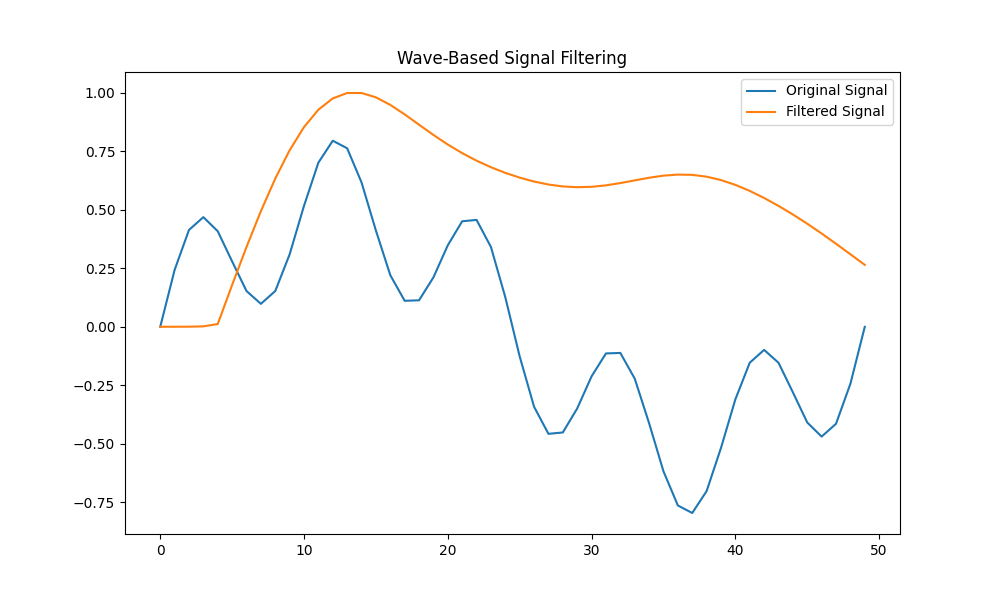
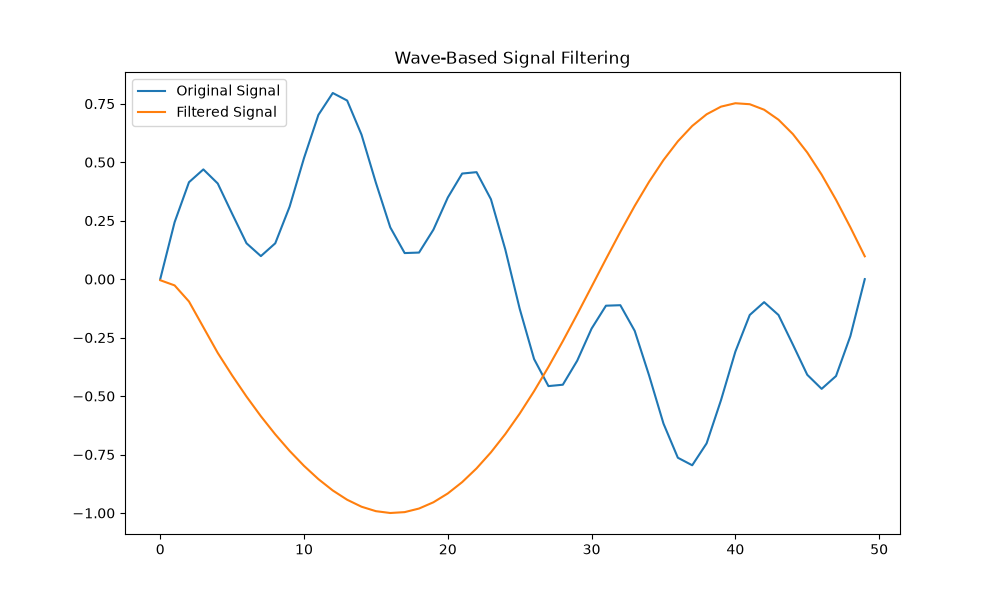
Fix wave logic gates ignoring their inputs
wave_logic_gates only checked that two input patterns were given; the
set-up and readout depended on the operation alone, so every input gave
the same answer (and at the old physics the centre readout was ~1e-9).

Each of the first two input patterns is now a bit (mean > 0.5) that
switches a line of sources on: input A along x = 5, input B along y = 5,
equidistant from the readout at the grid centre. The output compares the
centre amplitude with the amplitude one input alone produces there
(cached reference): AND > 1.5x (two in-phase waves add), OR > 0.5x, XOR
> 0.5x with B in antiphase so two active inputs cancel at the centre.
The result dict adds inputs, output, reference and threshold.
Default simulation_steps is 100 so the waves reach the centre.

On the 100 x 100 demo grid the centre amplitudes are 0, 0.365, 0.365 and
0.734 (AND/OR) and 0 for XOR with both inputs on; tests/test_wave_gates.py
checks all three truth tables and the margins. The demo prints the
truth tables. WaveComputing builds its media through _new_medium(), so
they share the computer's wave speed and time step.

diff --git a/wave_based_computing/wave_computing.py b/wave_based_computing/wave_computing.py
@@ -31,26 +31,14 @@ class WaveComputing:
         """
         results = []
         for test_idx, test_pattern in enumerate(test_patterns):
-            medium = WaveComputingMedium(
-                size=(self.medium.width, self.medium.height),
-                boundary=self.medium.boundary,
-                damping=self.medium.damping,
-                diffusion=self.medium.diffusion,
-                nonlinearity=self.medium.nonlinearity
-            )
+            medium = self._new_medium()
             self._encode_pattern_as_sources(medium, test_pattern)
             medium.run_simulation(steps=simulation_steps)
             test_signature = self._extract_wave_signature(medium)
 
             pattern_matches = []
             for ref_idx, ref_pattern in enumerate(reference_patterns):
-                ref_medium = WaveComputingMedium(
-                    size=(self.medium.width, self.medium.height),
-                    boundary=self.medium.boundary,
-                    damping=self.medium.damping,
-                    diffusion=self.medium.diffusion,
-                    nonlinearity=self.medium.nonlinearity
-                )
+                ref_medium = self._new_medium()
                 self._encode_pattern_as_sources(ref_medium, ref_pattern)
                 ref_medium.run_simulation(steps=simulation_steps)
                 ref_signature = self._extract_wave_signature(ref_medium)
@@ -131,83 +119,98 @@ class WaveComputing:
         similarity = dot_product / (magnitude1 * magnitude2 + 1e-6)
         return (similarity + 1) / 2
 
-    def wave_logic_gates(self, input_patterns, operation='and', simulation_steps=50):
+    # Gate set-up: one line of sources per input, equidistant from the readout point at the grid centre
+    GATE_AMPLITUDE = 0.3
+    GATE_FREQUENCY = 0.5
+    GATE_THRESHOLDS = {'and': 1.5, 'or': 0.5, 'xor': 0.5}   # x the single-input readout
+
+    def _new_medium(self, **overrides):
+        """A fresh medium with this computer's grid and physical parameters (overrides win)."""
+        kw = dict(size=(self.medium.width, self.medium.height), boundary=self.medium.boundary,
+                  damping=self.medium.damping, wave_speed=self.medium.wave_speed,
+                  nonlinearity=self.medium.nonlinearity, time_step=self.medium.time_step)
+        kw.update(overrides)
+        return WaveComputingMedium(**kw)
+
+    def gate_medium(self, bits, operation):
+        """Medium for a gate: input A is a line of sources at x = 5 (rows H/4..3H/4), input B a line at y = 5
+        (columns W/4..3W/4); a line is switched on when its bit is 1. B is in phase with A for AND/OR and in
+        antiphase for XOR, so at the centre (equidistant from both lines on a square grid) the two waves add
+        or cancel."""
+        medium = self._new_medium(boundary='absorbing')
+        phase_b = np.pi if operation == 'xor' else 0.0
+        if bits[0]:
+            for y in range(medium.height // 4, 3 * medium.height // 4):
+                medium.add_source((5, y), self.GATE_AMPLITUDE, self.GATE_FREQUENCY, phase=0.0)
+        if bits[1]:
+            for x in range(medium.width // 4, 3 * medium.width // 4):
+                medium.add_source((x, 5), self.GATE_AMPLITUDE, self.GATE_FREQUENCY, phase=phase_b)
+        return medium
+
+    @staticmethod
+    def gate_readout(medium, window=20):
+        """Wave amplitude at the centre: largest |mean of the 3x3 centre cells| over the last `window` frames
+        (20 frames = one period at the gate frequency with time_step 0.1)."""
+        cx, cy = medium.width // 2, medium.height // 2
+        frames = medium.history[-window:]
+        if not frames:
+            return 0.0
+        return float(max(abs(f[cy - 1:cy + 2, cx - 1:cx + 2].mean()) for f in frames))
+
+    def _gate_reference(self, simulation_steps):
+        """Readout with only input A on (cached per grid and parameters): the unit for the thresholds."""
+        key = (self.medium.width, self.medium.height, self.medium.damping, self.medium.wave_speed,
+               self.medium.nonlinearity, self.medium.time_step, simulation_steps)
+        cache = self.__dict__.setdefault('_gate_refs', {})
+        if key not in cache:
+            ref = self.gate_medium((True, False), 'or')
+            ref.run_simulation(steps=simulation_steps)
+            cache[key] = self.gate_readout(ref)
+        return cache[key]
+
+    def wave_logic_gates(self, input_patterns, operation='and', simulation_steps=100):
         """
         Implement logic gates using wave interference.
 
-        Note: the gate's sources, resonant region and readout are fixed by
-        `operation`; the contents of `input_patterns` are not used (only that at
-        least two are given), so the result does not depend on the input values.
+        Each of the first two input patterns is read as a bit (pattern mean > 0.5) that switches a line of
+        sources on or off (see gate_medium). The output is the wave amplitude at the grid centre compared with
+        the amplitude one input alone produces there (the reference): AND needs more than 1.5x the reference
+        (both waves arriving in phase), OR more than 0.5x, and XOR more than 0.5x with input B in antiphase, so
+        that two active inputs cancel at the centre.
 
         Parameters:
-        - input_patterns: List of input patterns (at least two; values unused)
+        - input_patterns: List of at least two input patterns (arrays; bit = mean > 0.5)
         - operation: Logic operation ('and', 'or', 'xor')
-        - simulation_steps: Number of simulation steps
+        - simulation_steps: Number of simulation steps (the waves need ~(W/2 - 5) / wave_speed time units
+          to reach the centre)
 
         Returns:
-        - output_pattern: Result of the operation
+        - dict with operation, inputs (bits), output (bool), result_value (centre amplitude), reference,
+          threshold, output_pattern and simulation_frames; None if fewer than two inputs
         """
         if len(input_patterns) < 2:
             return None
-        medium = WaveComputingMedium(
-            size=(self.medium.width, self.medium.height),
-            boundary=self.medium.boundary,
-            damping=self.medium.damping,
-            diffusion=self.medium.diffusion,
-            nonlinearity=self.medium.nonlinearity
-        )
-        if operation == 'and':
-            for y in range(medium.height // 4, 3 * medium.height // 4):
-                medium.add_source((5, y), 0.3, 0.5, phase=0)
-            for x in range(medium.width // 4, 3 * medium.width // 4):
-                medium.add_source((x, 5), 0.3, 0.5, phase=0)
-            center_x, center_y = medium.width // 2, medium.height // 2
-            medium.add_resonant_region(
-                center_x - 10, center_x + 10,
-                center_y - 10, center_y + 10,
-                frequency=0.5
-            )
-        elif operation == 'or':
-            for y in range(medium.height // 4, 3 * medium.height // 4):
-                medium.add_source((5, y), 0.2, 0.7, phase=0)
-            for x in range(medium.width // 4, 3 * medium.width // 4):
-                medium.add_source((x, 5), 0.2, 0.7, phase=0)
-            center_x, center_y = medium.width // 2, medium.height // 2
-            medium.add_resonant_region(
-                center_x - 15, center_x + 15,
-                center_y - 15, center_y + 15,
-                frequency=0.7
-            )
-        elif operation == 'xor':
-            for y in range(medium.height // 4, 3 * medium.height // 4):
-                medium.add_source((5, y), 0.3, 0.6, phase=0)
-            for x in range(medium.width // 4, 3 * medium.width // 4):
-                medium.add_source((x, 5), 0.3, 0.6, phase=np.pi)
-            medium.nonlinearity = 0.2
-
+        if operation not in self.GATE_THRESHOLDS:
+            raise ValueError(f"Unknown operation {operation!r}; use 'and', 'or' or 'xor'")
+        bits = [bool(float(np.mean(p)) > 0.5) for p in input_patterns[:2]]
+        medium = self.gate_medium(bits, operation)
         frames = medium.run_simulation(steps=simulation_steps, visualize=True)
-        center_x, center_y = medium.width // 2, medium.height // 2
-        region_size = 10
-        x_min = max(0, center_x - region_size)
-        x_max = min(medium.width, center_x + region_size)
-        y_min = max(0, center_y - region_size)
-        y_max = min(medium.height, center_y + region_size)
+        result_value = self.gate_readout(medium)
+        reference = self._gate_reference(simulation_steps)
+        threshold = self.GATE_THRESHOLDS[operation] * reference
+        output = bool(result_value > threshold)
 
-        last_frames = medium.history[-10:]
-        if not last_frames:
-            return None
-        center_activations = [
-            np.max(np.abs(frame[y_min:y_max, x_min:x_max]))
-            for frame in last_frames
-        ]
-        result_value = np.max(center_activations)
-
-        output = np.zeros((medium.height, medium.width))
-        output[y_min:y_max, x_min:x_max] = result_value
+        cx, cy = medium.width // 2, medium.height // 2
+        output_pattern = np.zeros((medium.height, medium.width))
+        output_pattern[max(0, cy - 10):cy + 10, max(0, cx - 10):cx + 10] = result_value
         return {
             'operation': operation,
+            'inputs': bits,
+            'output': output,
             'result_value': result_value,
-            'output_pattern': output,
+            'reference': reference,
+            'threshold': threshold,
+            'output_pattern': output_pattern,
             'simulation_frames': frames
         }
 
@@ -218,13 +221,7 @@ class WaveComputing:
         memory element at that position plus 0.3 * twice the mean wave activity
         around it, so most of the readout comes from the stored number itself.
         """
-        medium = WaveComputingMedium(
-            size=(self.medium.width, self.medium.height),
-            boundary='absorbing',
-            damping=0.995,
-            diffusion=0.1,
-            nonlinearity=0.05
-        )
+        medium = self._new_medium(boundary='absorbing', damping=0.995, nonlinearity=0.05)
         data_length = len(input_data)
         spacing = medium.width // (data_length + 1)
         for i, value in enumerate(input_data):
@@ -277,12 +274,7 @@ class WaveComputing:
 
     def wave_filter(self, input_signal, filter_type='lowpass', cutoff_frequency=0.5, simulation_steps=100):
         """Filter a 1D signal using wave dynamics."""
-        medium = WaveComputingMedium(
-            size=(self.medium.width, self.medium.height),
-            boundary='absorbing',
-            damping=0.99,
-            diffusion=0.1
-        )
+        medium = self._new_medium(boundary='absorbing', damping=0.99, nonlinearity=0.1)
         signal_length = len(input_signal)
         signal_scale = min(1.0, medium.height / signal_length)
         for i, value in enumerate(input_signal):

diff --git a/tests/test_wave_gates.py b/tests/test_wave_gates.py
@@ -1,0 +1,43 @@
+"""Wave logic gates read their two input patterns (bit = pattern mean > 0.5) and follow the truth tables."""
+import os
+import sys
+
+import numpy as np
+import pytest
+
+sys.path.insert(0, os.path.dirname(os.path.dirname(os.path.abspath(__file__))))
+
+from wave_based_computing import WaveComputing, WaveComputingMedium  # noqa: E402
+
+TABLES = {'and': [0, 0, 0, 1], 'or': [0, 1, 1, 1], 'xor': [0, 1, 1, 0]}
+BITS = [(0, 0), (0, 1), (1, 0), (1, 1)]
+
+
+@pytest.fixture(scope='module')
+def computer():
+    return WaveComputing(WaveComputingMedium(size=(60, 60)))
+
+
+@pytest.mark.parametrize('op', sorted(TABLES))
+def test_truth_table(computer, op):
+    outs = []
+    for a, b in BITS:
+        r = computer.wave_logic_gates([np.full((4, 4), float(a)), np.full((4, 4), float(b))], operation=op)
+        assert r['inputs'] == [bool(a), bool(b)]
+        outs.append(int(r['output']))
+    assert outs == TABLES[op], f"{op}: {outs}"
+
+
+def test_gate_readout_margins(computer):
+    """Readouts sit well away from the thresholds (not a knife-edge result)."""
+    one = computer.wave_logic_gates([np.ones((2, 2)), np.zeros((2, 2))], operation='or')
+    both = computer.wave_logic_gates([np.ones((2, 2)), np.ones((2, 2))], operation='and')
+    xor = computer.wave_logic_gates([np.ones((2, 2)), np.ones((2, 2))], operation='xor')
+    ref = one['reference']
+    assert ref > 0.05
+    assert both['result_value'] > 1.7 * ref
+    assert xor['result_value'] < 0.1 * ref
+
+
+def test_needs_two_inputs(computer):
+    assert computer.wave_logic_gates([np.ones((2, 2))]) is None

diff --git a/wave_based_computing/wave_based_computing.py b/wave_based_computing/wave_based_computing.py
@@ -127,23 +127,16 @@ if __name__ == "__main__":
     # Demo: Wave Logic Gates
     print("\nDemonstrating wave logic gates...")
 
-    # Test AND gate
-    and_result = wave_computer.wave_logic_gates(
-        input_patterns=[np.ones((10, 10)), np.ones((10, 10))],
-        operation='and'
-    )
-
-    if and_result:
-        print(f"AND gate result: {and_result['result_value']:.3f}")
-
-    # Test OR gate
-    or_result = wave_computer.wave_logic_gates(
-        input_patterns=[np.ones((10, 10)), np.zeros((10, 10))],
-        operation='or'
-    )
-
-    if or_result:
-        print(f"OR gate result: {or_result['result_value']:.3f}")
+    # Truth tables: each input pattern is a bit (pattern mean > 0.5)
+    for operation in ('and', 'or', 'xor'):
+        rows = []
+        for a_bit, b_bit in [(0, 0), (0, 1), (1, 0), (1, 1)]:
+            gate = wave_computer.wave_logic_gates(
+                input_patterns=[np.full((10, 10), float(a_bit)), np.full((10, 10), float(b_bit))],
+                operation=operation
+            )
+            rows.append(f"{a_bit}{b_bit}->{int(gate['output'])} ({gate['result_value']:.3f})")
+        print(f"{operation.upper()} gate: " + ", ".join(rows))
 
     # Demo: Wave Memory
     print("\nDemonstrating wave memory...")
